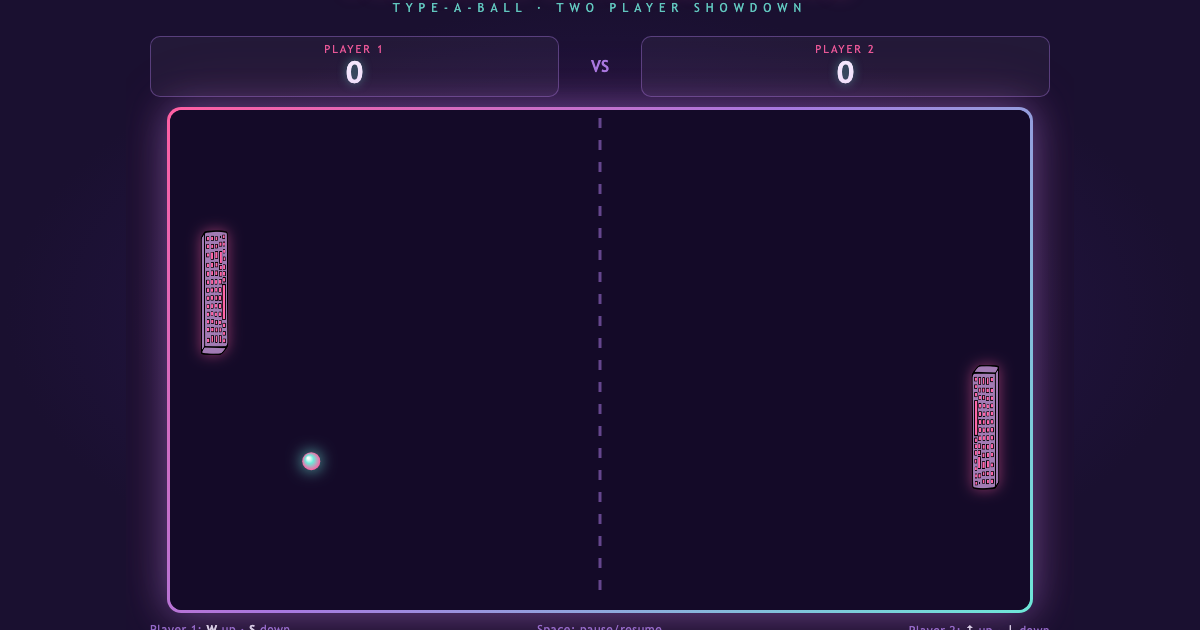
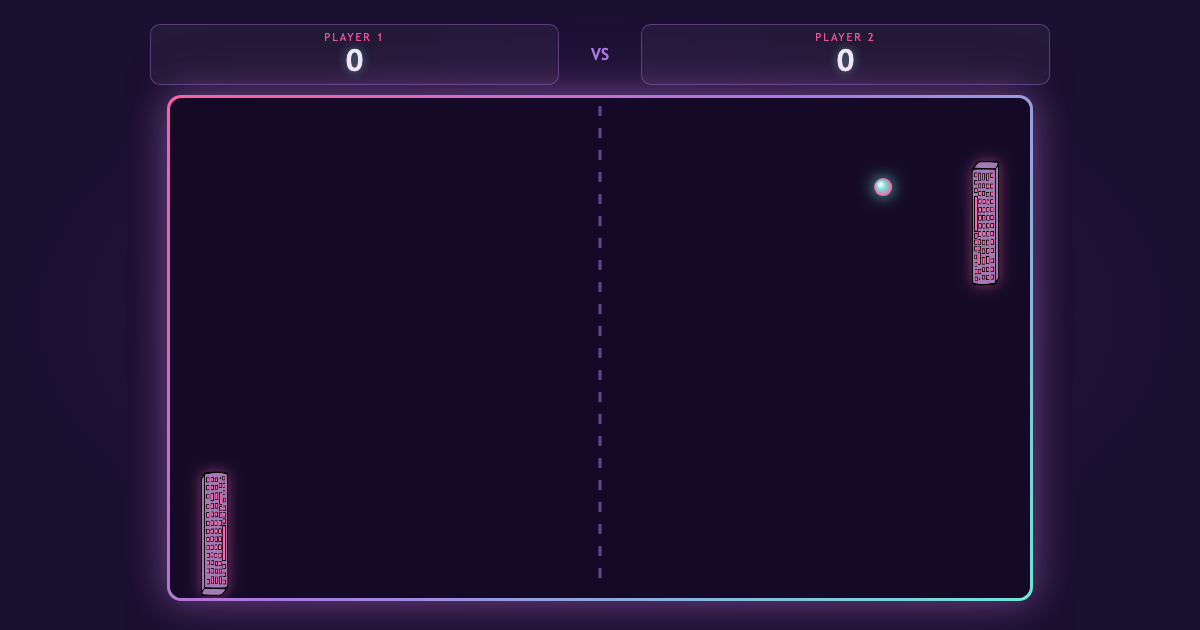
fix(arcade): Re-shoot Pigeon Post and Keyboard Pong cabinet captures
Two of the three original captures failed review on inspection.
Flappy Philacon's captures were already good and are untouched.

Pigeon Post: both images had the game's permanent on-canvas title and
instructions HUD baked in ("Pigeon Post — steer with WASD/Arrows...").
Grepped the game's source for anything that hides, fades, or toggles
that element — there isn't one; it's not a dismissible splash screen,
it's always-on. The warm-up now hides it directly via page.evaluate
before capture. Separately, the default altitude kept the planet's
horizon low in the frame (mostly empty sky); the warm-up now dives
briefly (ArrowDown lowers altitude, confirmed against the in-HUD ALT
readout) so the planet's curve is a real presence in the shot.

Keyboard Pong: the previous warm-up left the frame reading as a match
that hadn't started (paddles near center, ball alone in open court).
The new warm-up patches the canvas 2D context (ctx.arc for the ball,
ctx.drawImage for each paddle) via page.addInitScript to expose their
live positions — the game's own script is an IIFE with no exposed
state, so this was the only way to read it — then reacts to the
ball's actual (randomized) direction each run, driving the paddle on
that side to track the ball's y in real time while the far paddle is
held moving too, until the ball is close enough to read as an
in-progress return (sometimes catching the bounce itself). This
replaces guessing a fixed wait that only sometimes lined up.
[…]

diff --git a/src/content/arcade/keyboard-pong.md b/src/content/arcade/keyboard-pong.md
@@ -10,7 +10,7 @@ longDescription: >-
   same keyboard, and it cannot be played with a touchscreen alone.
 slug: 'keyboard-pong'
 thumbnail: '/images/arcade/keyboard-pong.webp'
-thumbnailAlt: 'Two keyboard-shaped paddles facing off across a dark purple court with a glowing white ball in flight between them.'
+thumbnailAlt: 'Two keyboard-shaped paddles, both displaced from center on a dark purple court, with a glowing white ball closing in on one paddle mid-rally.'
 ogImage: '/images/arcade/keyboard-pong-og.webp'
 marqueeColor: 'purple'
 kind: 'game'
